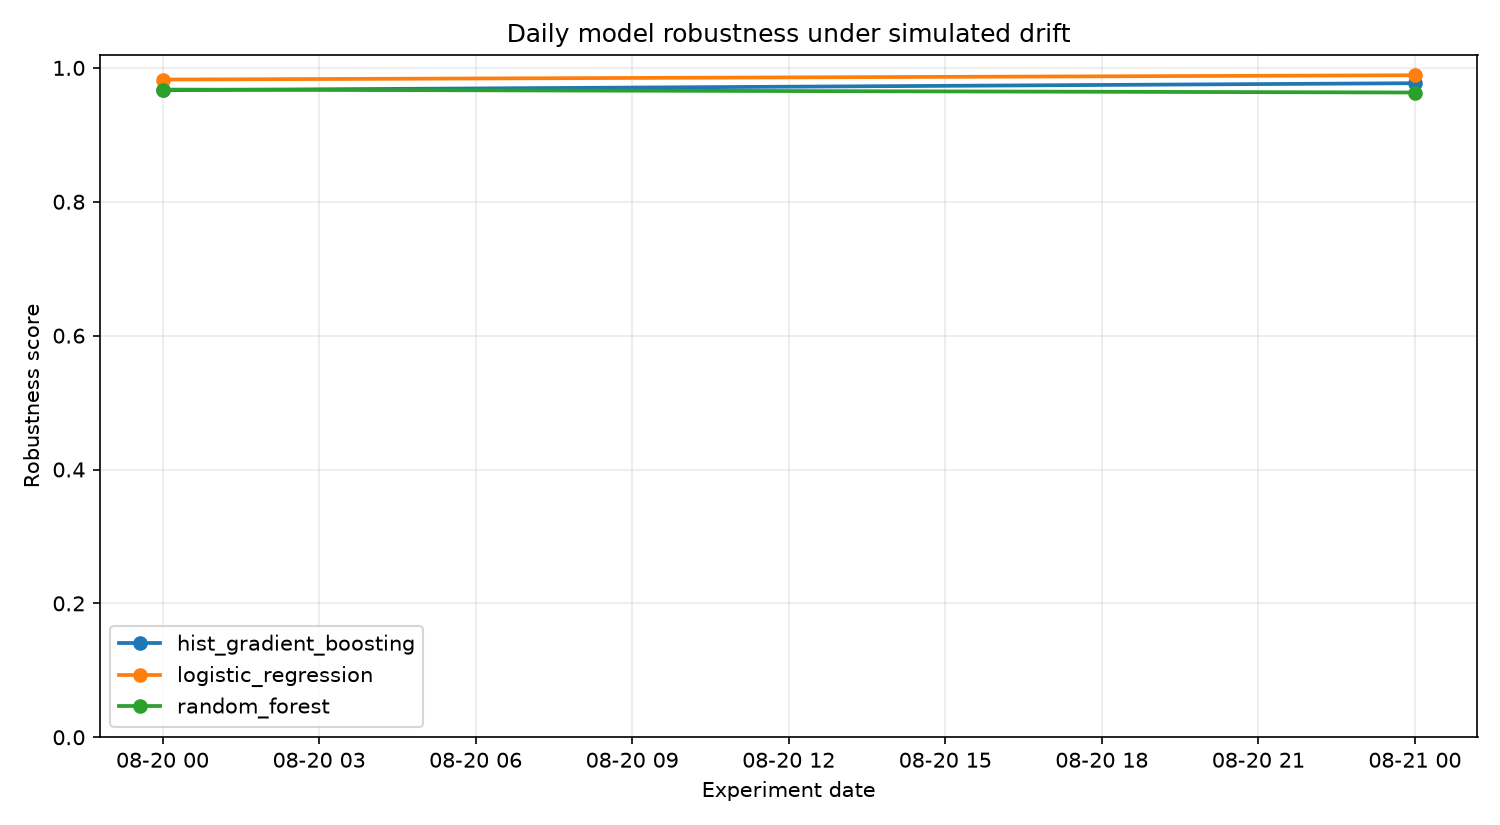
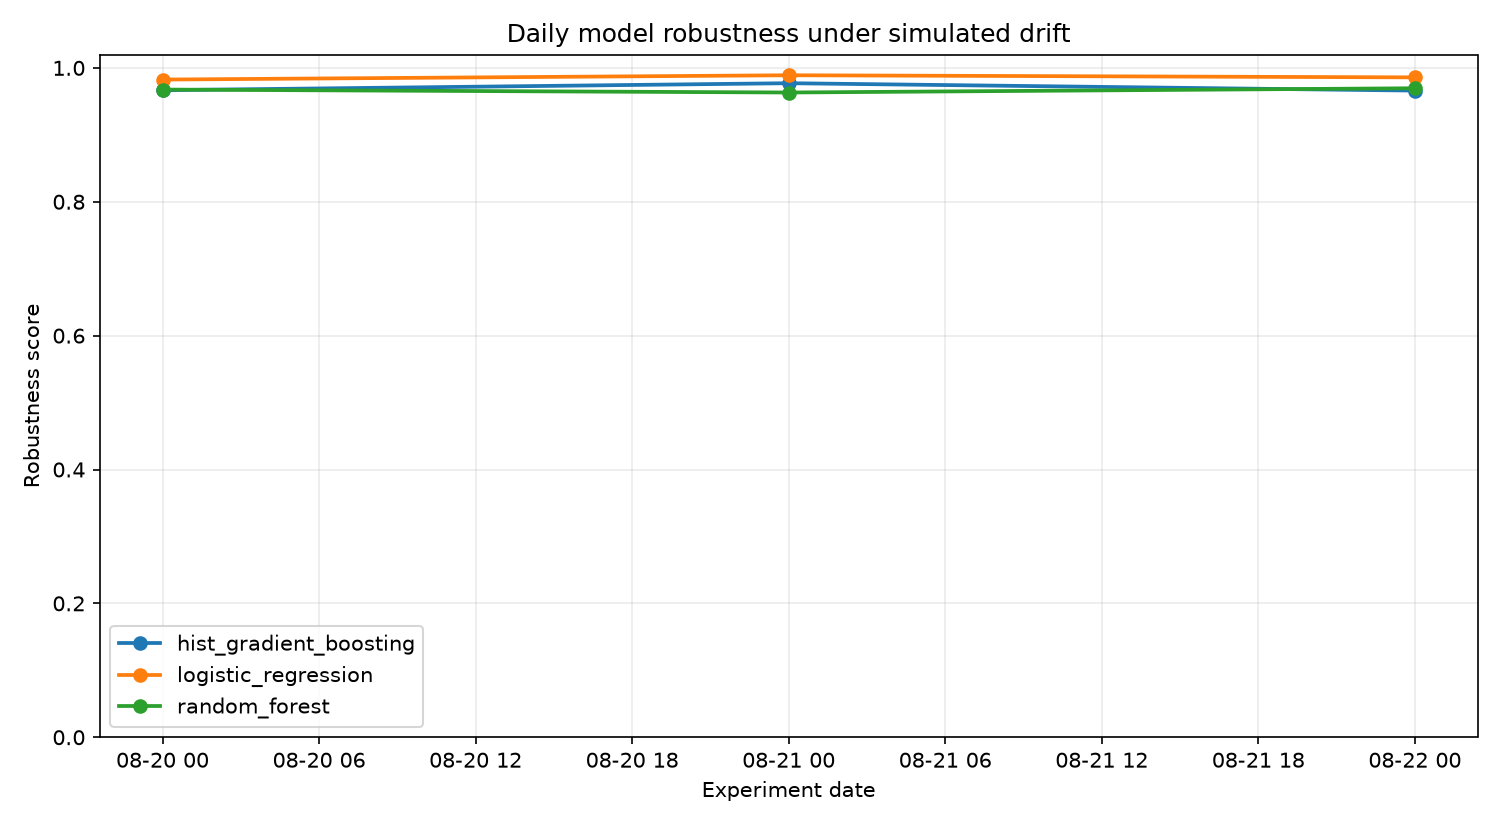
chore(observatory): daily drift benchmark 2026-08-22

diff --git a/reports/latest.md b/reports/latest.md
@@ -1,37 +1,37 @@
 # Latest DriftWatch Report
 
-**Experiment date:** 2026-08-21
+**Experiment date:** 2026-08-22
 
 ## Drift scenario
 
-- Drift strength: `0.361`
-- Scale factor: `0.964`
-- Noise ratio: `0.068`
-- Mask ratio: `0.018`
-- Affected features: mean compactness, area error, concavity error, fractal dimension error, worst concavity, worst concave points, worst symmetry
+- Drift strength: `0.429`
+- Scale factor: `0.957`
+- Noise ratio: `0.076`
+- Mask ratio: `0.020`
+- Affected features: mean perimeter, texture error, smoothness error, fractal dimension error, worst area, worst smoothness, worst concave points
 
 ## Model ranking
 
 | Rank | Model | Robustness | ROC-AUC | F1 | Balanced Acc. | Log Loss | Brier |
 |---:|---|---:|---:|---:|---:|---:|---:|
-| 1 | `logistic_regression` | 0.9890 | 0.9975 | 0.9860 | 0.9797 | 0.0673 | 0.0176 |
-| 2 | `hist_gradient_boosting` | 0.9771 | 0.9946 | 0.9727 | 0.9531 | 0.1136 | 0.0317 |
-| 3 | `random_forest` | 0.9632 | 0.9912 | 0.9488 | 0.9298 | 0.1361 | 0.0387 |
+| 1 | `logistic_regression` | 0.9858 | 0.9975 | 0.9815 | 0.9719 | 0.0724 | 0.0200 |
+| 2 | `random_forest` | 0.9696 | 0.9923 | 0.9640 | 0.9375 | 0.1423 | 0.0401 |
+| 3 | `hist_gradient_boosting` | 0.9661 | 0.9845 | 0.9640 | 0.9375 | 0.2103 | 0.0441 |
 
 ## Highest feature drift (PSI)
 
 | Feature | PSI |
 |---|---:|
-| area error | 0.7076 |
-| worst symmetry | 0.3211 |
-| fractal dimension error | 0.2670 |
-| worst concave points | 0.2548 |
-| concavity error | 0.2517 |
-| worst concavity | 0.2214 |
-| mean compactness | 0.1603 |
-| texture error | 0.1500 |
+| worst area | 0.3805 |
+| worst concave points | 0.2663 |
+| fractal dimension error | 0.2443 |
+| texture error | 0.2420 |
+| worst smoothness | 0.1890 |
+| smoothness error | 0.1836 |
+| perimeter error | 0.1498 |
+| mean perimeter | 0.1447 |
 
-**Mean PSI:** `0.1324`  
-**Max PSI:** `0.7076`
+**Mean PSI:** `0.1180`  
+**Max PSI:** `0.3805`
 
 _Generated automatically by the DriftWatch daily observatory pipeline._
